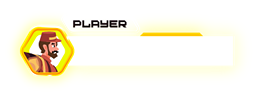
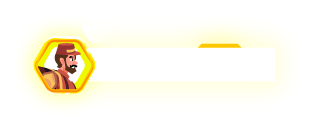
update FE to add user id

Changed region(s): [[0.0312, 0.2174, 0.875, 0.8478]]

diff --git a/src/sustainations_dao_assets/src/app/main/metaverse/scenes/BaseScene.js b/src/sustainations_dao_assets/src/app/main/metaverse/scenes/BaseScene.js
@@ -95,6 +95,8 @@ class BaseScene extends Phaser.Scene {
   async createUIElements(isDisabled = false) {
     //UI
     this.add.image(20, 30, "UI_NameCard").setOrigin(0).setScrollFactor(0);
+    this.add.text(90, 47, 'Trekker', { fill: '#000', align: 'center', fontSize: '9px', font: 'Arial'}).setScrollFactor(0);
+    this.add.text(90, 65, 'abcdef', { fill: '#000', align: 'center', font: '15px Arial'}).setScrollFactor(0);
     this.add.image(255, 30, "UI_HP").setOrigin(0).setScrollFactor(0);
     this.add.image(490, 30, "UI_Mana").setOrigin(0).setScrollFactor(0);
     this.add.image(725, 30, "UI_Stamina").setOrigin(0).setScrollFactor(0);

diff --git a/src/sustainations_dao_assets/src/app/main/metaverse/scenes/selectItemScene.js b/src/sustainations_dao_assets/src/app/main/metaverse/scenes/selectItemScene.js
@@ -110,6 +110,8 @@ class selectItemScene extends BaseScene {
       .setScrollFactor(0);
 
     this.add.image(35, 100, 'UI_NameCard').setOrigin(0);
+    this.add.text(105, 117, 'Trekker', { fill: '#000', align: 'center', fontSize: '9px', font: 'Arial'})
+    this.add.text(105, 135, 'abcdef', { fill: '#000', align: 'center', font: '15px Arial'})
     this.add.image(35, 175, 'UI_HP').setOrigin(0);
     this.add.image(35, 250, 'UI_Stamina').setOrigin(0);
     this.add.image(35, 325, 'UI_Mana').setOrigin(0);
